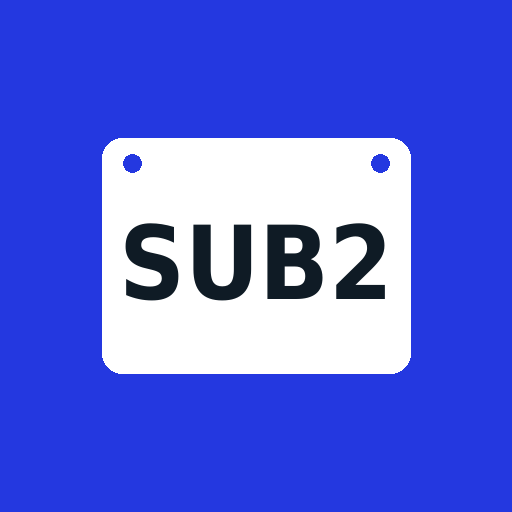
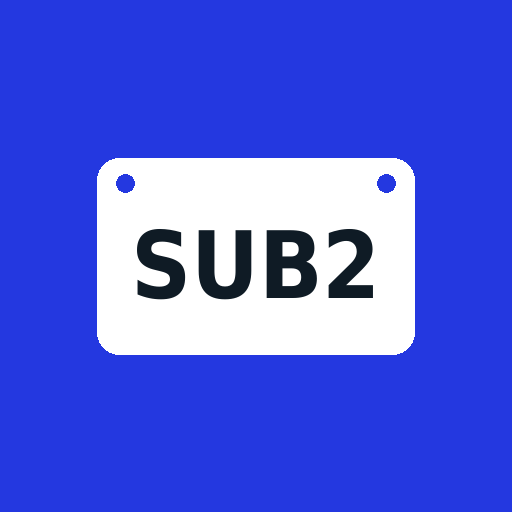
Icono: texto dentro de la zona segura para que no se corte
Claude-Session: https://claude.ai/code/session_01Pqj4CKtwuqF2UyB5uRiyGC

Changed region(s): [[0.1875, 0.25, 0.8125, 0.75]]

diff --git a/sw.js b/sw.js
@@ -1,5 +1,5 @@
 // Primero la red (para que los cambios lleguen al momento) y, sin conexión, la última copia guardada.
-const CACHE = 'plan-sub2-v1';
+const CACHE = 'plan-sub2-v2';
 const SHELL = ['./', './index.html', './manifest.webmanifest', './icon-192.png', './icon-512.png'];
 self.addEventListener('install', e => {
   e.waitUntil(caches.open(CACHE).then(c => c.addAll(SHELL)));
